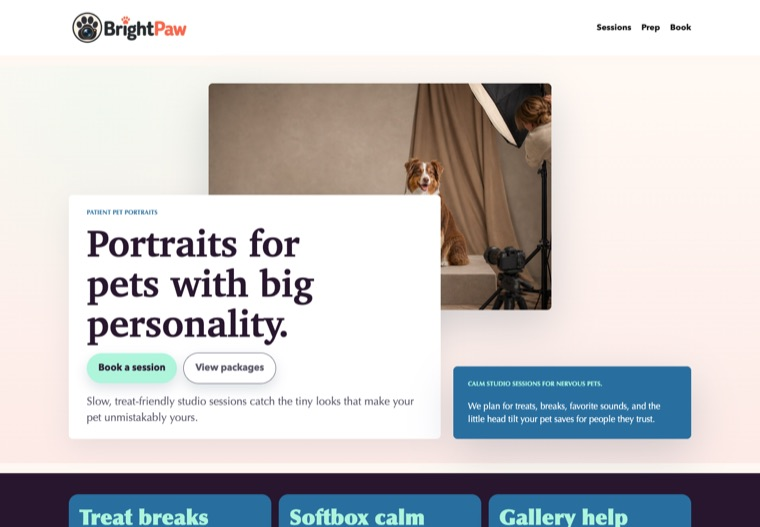
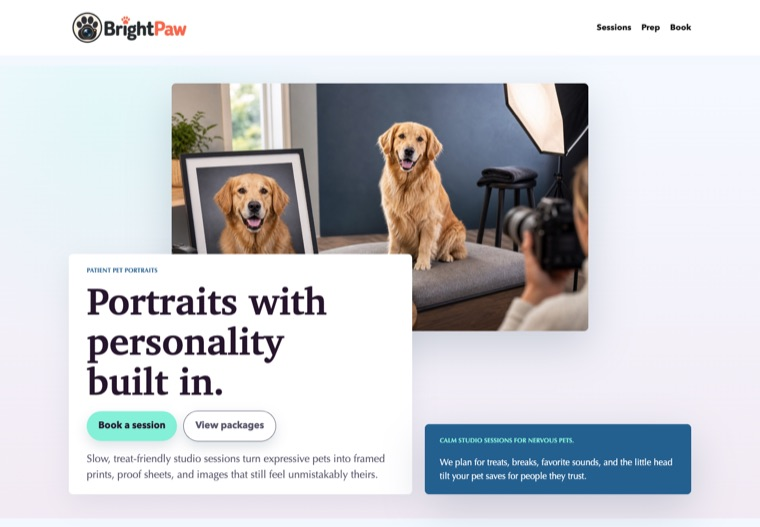
Polish BrightPaw portrait hero

diff --git a/docs/index.html b/docs/index.html
@@ -980,14 +980,14 @@
         </ul>
         <p class="hero-note">Use it like a meeting artifact: point at a niche, launch the site, show the proof trail, and make the next production lane feel obvious.</p>
         <div class="actions">
-          <a class="button primary" href="https://playground.wordpress.net/?blueprint-url=https%3A%2F%2Fraw.githubusercontent.com%2FRegionallyFamous%2FSite-O-Mattic%2Fmain%2Fpublic%2Fblueprints%2Fheadshot-brand-photography%2Fblueprint.json" aria-label="Open FrameForge Headshots in WordPress Playground">Open featured demo</a>
+          <a class="button primary" href="https://playground.wordpress.net/?blueprint-url=https%3A%2F%2Fraw.githubusercontent.com%2FRegionallyFamous%2FSite-O-Mattic%2Fmain%2Fpublic%2Fblueprints%2Fpet-portrait-photography%2Fblueprint.json" aria-label="Open BrightPaw Portraits in WordPress Playground">Open featured demo</a>
           <a class="button" href="#catalog">Browse screenshot wall</a>
         </div>
       </div>
       <aside class="hero-ticket" aria-label="90-second meeting script">
         <p class="eyebrow">90-second room script</p>
         <h2>Open the site. Show the receipts. Ask for the lane.</h2>
-        <img class="ticket-shot" src="previews/headshot-brand-photography-desktop.png" alt="Screenshot of the featured FrameForge Headshots demo" loading="eager">
+        <img class="ticket-shot" src="previews/pet-portrait-photography-desktop.png" alt="Screenshot of the featured BrightPaw Portraits demo" loading="eager">
         <ol class="ticket-list">
           <li><strong>1</strong><span>Pick a niche the room understands instantly.</span></li>
           <li><strong>2</strong><span>Launch the live Playground site.</span></li>
@@ -997,9 +997,9 @@
         <p class="ticket-ask">Ask: fund the next lane of inspectable WordPress sales demos.</p>
       </aside>
       <nav class="hero-shelf" aria-label="Featured live demo screenshots">
-        <a href="https://playground.wordpress.net/?blueprint-url=https%3A%2F%2Fraw.githubusercontent.com%2FRegionallyFamous%2FSite-O-Mattic%2Fmain%2Fpublic%2Fblueprints%2Fheadshot-brand-photography%2Fblueprint.json" aria-label="Open FrameForge Headshots live demo in WordPress Playground">
-          <img src="catalog-assets/headshot-brand-photography-screenshot.jpg" alt="" loading="eager">
-          <span>FrameForge Headshots</span>
+        <a href="https://playground.wordpress.net/?blueprint-url=https%3A%2F%2Fraw.githubusercontent.com%2FRegionallyFamous%2FSite-O-Mattic%2Fmain%2Fpublic%2Fblueprints%2Fpet-portrait-photography%2Fblueprint.json" aria-label="Open BrightPaw Portraits live demo in WordPress Playground">
+          <img src="catalog-assets/pet-portrait-photography-screenshot.jpg" alt="" loading="eager">
+          <span>BrightPaw Portraits</span>
         </a>
         <a href="https://playground.wordpress.net/?blueprint-url=https%3A%2F%2Fraw.githubusercontent.com%2FRegionallyFamous%2FSite-O-Mattic%2Fmain%2Fpublic%2Fblueprints%2Fgarage-organization%2Fblueprint.json" aria-label="Open GridNest Garage live demo in WordPress Playground">
           <img src="catalog-assets/garage-organization-screenshot.jpg" alt="" loading="eager">
@@ -1041,18 +1041,18 @@
     </section>
 
     <section class="latest" aria-labelledby="featured-heading">
-      <a class="latest-preview" href="https://playground.wordpress.net/?blueprint-url=https%3A%2F%2Fraw.githubusercontent.com%2FRegionallyFamous%2FSite-O-Mattic%2Fmain%2Fpublic%2Fblueprints%2Fheadshot-brand-photography%2Fblueprint.json" aria-label="Open FrameForge Headshots in WordPress Playground">
-        <img class="desktop-shot" src="previews/headshot-brand-photography-desktop.png" alt="FrameForge Headshots desktop preview" loading="eager">
-        <img class="mobile-shot" src="previews/headshot-brand-photography-mobile-390.png" alt="FrameForge Headshots mobile preview" loading="eager">
+      <a class="latest-preview" href="https://playground.wordpress.net/?blueprint-url=https%3A%2F%2Fraw.githubusercontent.com%2FRegionallyFamous%2FSite-O-Mattic%2Fmain%2Fpublic%2Fblueprints%2Fpet-portrait-photography%2Fblueprint.json" aria-label="Open BrightPaw Portraits in WordPress Playground">
+        <img class="desktop-shot" src="previews/pet-portrait-photography-desktop.png" alt="BrightPaw Portraits desktop preview" loading="eager">
+        <img class="mobile-shot" src="previews/pet-portrait-photography-mobile-390.png" alt="BrightPaw Portraits mobile preview" loading="eager">
       </a>
       <div>
         <p class="eyebrow">Featured proof</p>
-        <h2 id="featured-heading">FrameForge Headshots</h2>
-        <p>FrameForge guides wardrobe, lighting, expression, usage needs, proof selection, and delivery so the final portraits feel current, credible, and recognizably human.</p>
+        <h2 id="featured-heading">BrightPaw Portraits</h2>
+        <p>Slow, treat-friendly studio sessions turn expressive pets into framed prints, proof sheets, and images that still feel unmistakably theirs.</p>
         <div class="actions">
-          <a class="button primary" href="https://playground.wordpress.net/?blueprint-url=https%3A%2F%2Fraw.githubusercontent.com%2FRegionallyFamous%2FSite-O-Mattic%2Fmain%2Fpublic%2Fblueprints%2Fheadshot-brand-photography%2Fblueprint.json" aria-label="Launch FrameForge Headshots in WordPress Playground">Launch in Playground</a>
-          <a class="button" href="https://raw.githubusercontent.com/RegionallyFamous/Site-O-Mattic/main/public/blueprints/headshot-brand-photography/blueprint.json" aria-label="Open FrameForge Headshots Blueprint JSON">Blueprint JSON</a>
-          <a class="button" href="https://raw.githubusercontent.com/RegionallyFamous/Site-O-Mattic/main/public/blueprints/headshot-brand-photography/headshot-brand-photography-blueprint.zip" aria-label="Download FrameForge Headshots Blueprint ZIP">Download ZIP</a>
+          <a class="button primary" href="https://playground.wordpress.net/?blueprint-url=https%3A%2F%2Fraw.githubusercontent.com%2FRegionallyFamous%2FSite-O-Mattic%2Fmain%2Fpublic%2Fblueprints%2Fpet-portrait-photography%2Fblueprint.json" aria-label="Launch BrightPaw Portraits in WordPress Playground">Launch in Playground</a>
+          <a class="button" href="https://raw.githubusercontent.com/RegionallyFamous/Site-O-Mattic/main/public/blueprints/pet-portrait-photography/blueprint.json" aria-label="Open BrightPaw Portraits Blueprint JSON">Blueprint JSON</a>
+          <a class="button" href="https://raw.githubusercontent.com/RegionallyFamous/Site-O-Mattic/main/public/blueprints/pet-portrait-photography/pet-portrait-photography-blueprint.zip" aria-label="Download BrightPaw Portraits Blueprint ZIP">Download ZIP</a>
         </div>
       </div>
     </section>
@@ -2008,7 +2008,7 @@
     </details>
 
     <footer>
-      Generated 2026-06-28T00:31:50Z from RegionallyFamous/Site-O-Mattic on main.
+      Generated 2026-06-28T00:50:12Z from RegionallyFamous/Site-O-Mattic on main.
     </footer>
   </main>
 </body>